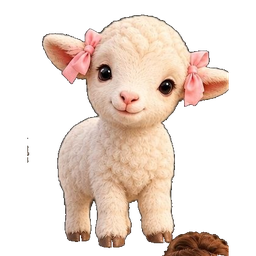
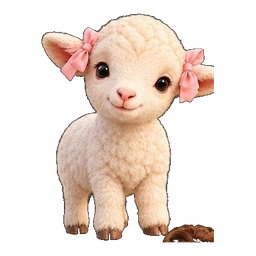
Аватары: центрированная вырезка, набор открывается по клику на фото

diff --git a/js/account.js b/js/account.js
@@ -214,7 +214,7 @@ const Account = (() => {
   }
   /* Неприметный вход разработчика — в самом низу окна кабинета, справа */
   const devLink = () => ""; /* вход разработчика только на /dev.html */
-  function bindDev(m) { m.querySelectorAll("[data-ava]").forEach(b => b.onclick = async () => {
+  function bindDev(m) { const avaLabel = m.querySelector(".ac-ava"), avaSet = m.querySelector("#acAvaSet");\n    if (avaLabel && avaSet) avaLabel.addEventListener("click", e => { if (e.target.tagName !== "INPUT") { e.preventDefault(); avaSet.hidden = false; avaSet.scrollIntoView({ block: "nearest" }); } });\n    m.querySelectorAll("[data-ava]").forEach(b => b.onclick = async () => {
       try {
         const info = { ...(S.info || {}), avatar: b.dataset.ava };
         await saveInfo(info);
@@ -230,9 +230,9 @@ const Account = (() => {
       const m = openModal(`<div class="dialog narrow"><div class="dlg-h"><h2>Личный кабинет</h2><button class="btn ghost x" data-close aria-label="Закрыть">×</button></div><div class="dlg-b">
         <form class="ac-prof" id="acProf">
           <label class="ac-ava" title="Нажмите, чтобы выбрать фото">${I.avatar ? `<img src="${esc(I.avatar)}" alt="">` : `<span>${esc(initials(I.name) || "👤")}</span>`}<input type="file" id="acPhoto" accept="image/*" hidden><em>${I.avatar ? "сменить" : "фото"}</em></label>
-          <div class="ac-ava-set" id="acAvaSet">
+          <div class="ac-ava-set" id="acAvaSet" hidden>
             <span class="small">Или выберите готовый:</span>
-            <div class="ac-ava-grid">${[1,2,3,4,5,6,7].map(i=>`<button type="button" class="ac-ava-btn" data-ava="js/avatars/a${i}.png?v=4" title="Без фона"><img src="js/avatars/a${i}.png?v=4" alt=""></button>`).join("")}${[1,2,3,4,5,6,7].map(i=>`<button type="button" class="ac-ava-btn" data-ava="js/avatars/a${i}w.png?v=4" title="На белом"><img src="js/avatars/a${i}w.png?v=4" alt=""></button>`).join("")}</div>
+            <div class="ac-ava-grid">${[1,2,3,4,5,6,7].map(i=>`<button type="button" class="ac-ava-btn" data-ava="js/avatars/a${i}.png?v=5" title="Без фона"><img src="js/avatars/a${i}.png?v=4" alt=""></button>`).join("")}${[1,2,3,4,5,6,7].map(i=>`<button type="button" class="ac-ava-btn" data-ava="js/avatars/a${i}w.png?v=5" title="На белом"><img src="js/avatars/a${i}w.png?v=5" alt=""></button>`).join("")}</div>
           </div>
           <div class="ac-fields">
             <input type="text" id="acName" placeholder="Имя и фамилия" value="${esc(I.name || "")}" autocomplete="name">

diff --git a/sw.js b/sw.js
@@ -5,7 +5,7 @@
    • Библиотеки (Word, PowerPoint, PDF, шрифты): из кэша, если уже были загружены.
    • Ответы Википедии и Викитеки запоминаются: урок по той же теме без сети соберётся с ними.
    • Ключи нейросетей, запросы к нейросетям и к GitHub в кэш не попадают. */
-const VERSION = "uchu-v5.270";
+const VERSION = "uchu-v5.271";
 const SHELL = ["./", "index.html", "css/v5.css", "data/base.js", "data/own.js", "data/extra.js", "data/frp.js", "data/promo.js", "data/legal.js", "manifest.json",
   "vendor/marked.umd.js", "vendor/purify.min.js", "vendor/turndown.js", "vendor/turndown-plugin-gfm.js", "vendor/pptxgen.bundle.js", "vendor/jszip.min.js", "vendor/docx.umd.js",
   ...["log", "cleaner", "learn", "learn2", "variety", "methodbase", "plans-loader", "kits-loader", "imagegen", "frpkit", "subjects", "usage", "heur", "litkit", "notes", "verify", "ocr", "materials", "collect", "devmode", "devcover", "account", "cloudbase", "rules", "schemes", "layout", "lessonnotes", "tutor", "mnemo", "themes", "themes2", "video", "photostk", "access", "rukit", "deck", "slides", "publish", "sync", "worksearch", "ai", "blobs"].map(n => `js/${n}.js`)];
